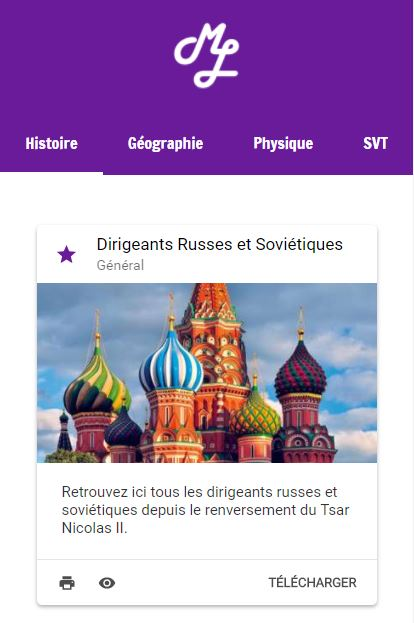
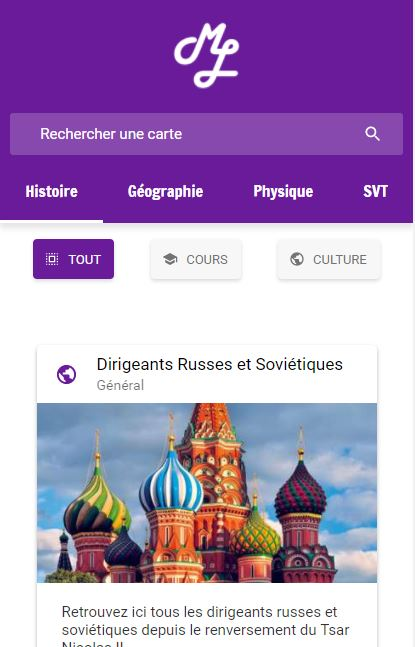
Updating the readme and improving the responsiveness

diff --git a/styles/finder.css b/styles/finder.css
@@ -37,6 +37,10 @@
 	transition: background .15s linear 0s;
 	animation: moveDown .31s ease-out forwards;
 }
+#finder ul.switcher li:last-child
+{
+	margin-right: 0;
+}
 #finder ul.switcher li:nth-child(2)
 {
 	animation-duration: .38s;
@@ -76,3 +80,18 @@
 	fill: #fff;
 }
 
+
+@media screen and (max-width: 800px) {
+	#finder
+	{
+		justify-content: center;
+		height: 72px;
+	}
+	#finder ul.switcher
+	{
+		height: 40px;
+		width: 90%;
+		margin-left: 0;
+		justify-content: space-around;
+	}
+}
